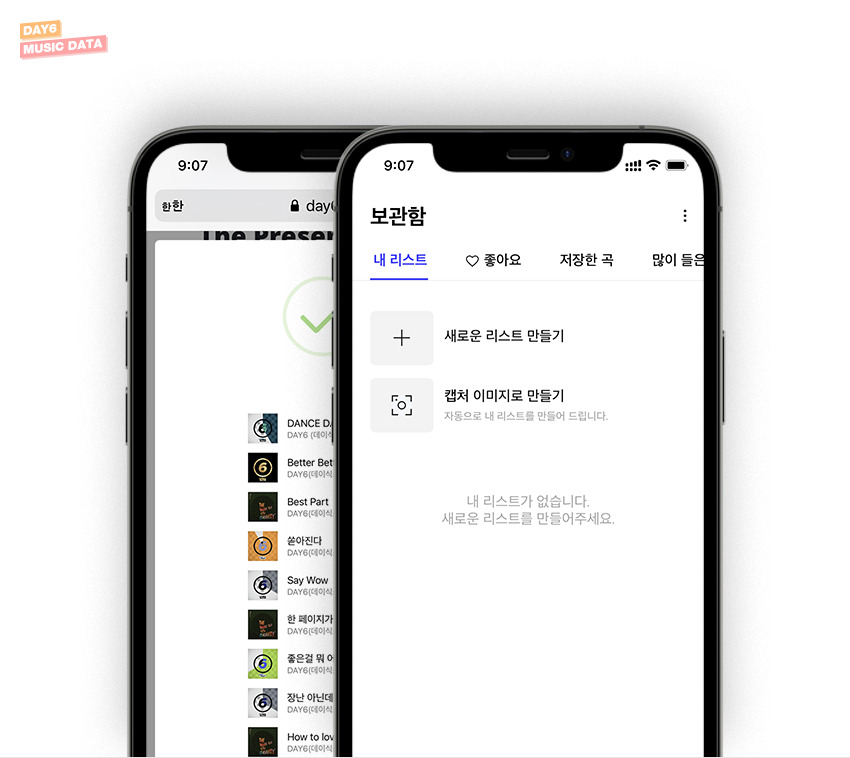
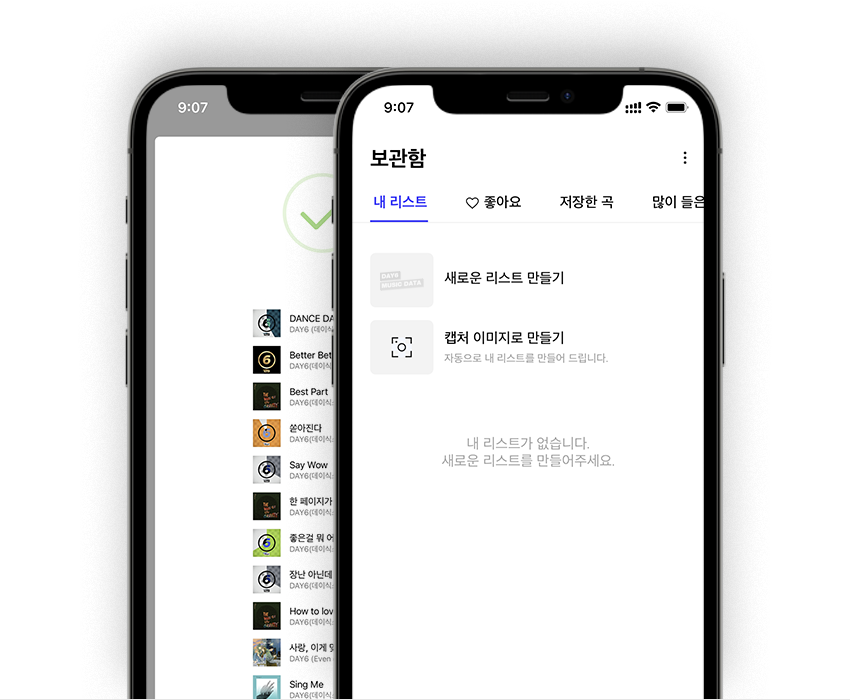
playlist-flo fix
playlist

diff --git a/assets/music.site.js b/assets/music.site.js
@@ -24,57 +24,56 @@ function musicsite(site, theme) {
   genie_songid[0] = "89220627;88233287;84964151;89220631;87591823;91978161;87591822;90194895;86112661;87121534;90756155;87463141;89472166;89472160;90194898;88072514;90194901;86112660;89472169;87415867;86990353;88072518;86866729;87185619;86931930;84964153;88072515;87463142;90194896;86112662;88455413";
   bugs_songid[0] = "31650949|31225862|4551004|31650953|30872543|32124930|30872542|31908732|30203513|30646155|32006767|30800908|31728999|31728993|31908735|31120687|31908738|30203512|31729002|30772387|30573081|31120691|30511021|30677528|30540153|4551006|31120688|30800909|31908733|30203514|31360122";
   vibe_songid[0] = "27852478,21712039,5701352,27852482,20121084,44037981,20121086,40319205,6049323,17736000,41909365,19183554,30184806,30165478,40319207,21408915,40319210,6049322,30184811,18939330,16473415,21408917,16035923,17836615,16081363,5701361,21408920,19183552,40319204,6049324,23177552";
-  flo_image[0] = "/playlist/pick.png"
+  flo_image[0] = "/playlist/pick.gif"
 
   // 1 - Arcane Salon
   melon_songid[1] = "32892356,31927275,30507915,31927276,7844375,31927274,30399494,31295149,30658626,30285386,31481699,30232719,32892358,31481700,33210835,32892360,30399493,8120285,7844372";
   genie_songid[1] = "90756153,89220627,87264764,89220628,84964154,89220626,87121534,88233287,87463141,86990353,88455412,86931930,90756155,88455413,91978161,90756157,87121533,86112661,84964151";
   bugs_songid[1] = "32006765,31650949,30708337,31650950,4551007,31650948,30646155,31225862,30800908,30573081,31360121,30540153,32006767,31360122,32124930,32006769,30646154,30203513,4551004";
   vibe_songid[1] = "41909363,27852478,18419728,27852479,5701347,27852477,17736000,21712039,19183554,16473415,23177550,16081363,41909365,23177552,44037981,41909366,17735999,6049323,5701352";
-  flo_image[1] = "/playlist/Arcane-Salon.png"
+  flo_image[1] = "/playlist/arcane-salon.gif"
 
   // 2 - present-2019
   melon_songid[2] = "32115582,32115584,30232719,31149441,30285386,30457472,32115585,30189030,8120284,30772000,31481700,30566475,7844375,30508688,31481703,32115575,32115576,31927275,32115577,30399493,7844372,8120285";
   genie_songid[2] = "89472166,89472168,86931930,88072518,86990353,87185619,89472169,86866729,86112660,87591823,88455413,87359517,84964154,87264765,88455416,89472159,89472160,89220627,89472161,87121533,84964151,86112661";
   bugs_songid[2] = "31728999,31729001,30540153,31120691,30573081,30677528,31729002,30511021,30203512,30872543,31360122,30742601,4551007,30708338,31360125,31728992,31728993,31650949,31728994,30646154,4551004,30203513";
   vibe_songid[2] = "30184806,30184810,16081363,21408917,16473415,17836615,30184811,16035923,6049322,20121084,23177552,18676777,5701347,18419729,23177561,30184802,30165478,27852478,30184807,17735999,5701352,6049323";
-  flo_image[2] = "/playlist/the-present-2019.png"
+  flo_image[2] = "/playlist/the-present-2019.gif"
 
   // 3 - gravity
   melon_songid[3] = "31927279,8120285,8120286,31149438,31927275,31481703,7844373,31149439,31927276,31927274,31927277,7844376,31481700,8120283,7844377,30658627,30189029,30457471,31481701,31149436,31149437,31927275,31927278,7844374,30399493,7844372,8120285";
   genie_songid[3] = "89220631,86112661,86112662,88072515,89220627,88455416,84964152,88072516,89220628,89220626,89220629,84964155,88455413,86089285,84964156,87463142,86866728,87185618,88455414,88072513,88072514,89220627,89220630,84964153,87121533,84964151,86112661";
   bugs_songid[3] = "31650953,30203513,30203514,31120688,31650949,31360125,4551005,31120689,31650950,31650948,31650951,4551008,31360122,30203511,4551009,30800909,30511020,30677527,31360123,31120686,31120687,31650949,31650952,4551006,30646154,4551004,30203513";
   vibe_songid[3] = "27852482,6049323,6049324,21408920,27852478,23177561,5701356,21408916,27852479,27852477,27852481,5701349,23177552,6049321,5701354,19183552,16035922,17836612,23177555,21408918,21408915,27852478,27852480,5701361,17735999,5701352,6049323";
-  flo_image[3] = "/playlist/GRAVITY-FIRST.png"
+  flo_image[3] = "/playlist/gravity.gif"
 
   // 4 - love
   melon_songid[4] = "31927275,30771999,30711863,30772000,31295149,30507915,30399494,33210835,31927276,30345503,30233080,30345502";
   genie_songid[4] = "89220627;87591822;87527109;87591823;88233287;87264764;87121534;91978161;89220628;87064419;86931931;87064418";
   bugs_songid[4] = "31650949|30872542|30833862|30872543|31225862|30708337|30646155|32124930|31650950|30612024|30540154|30612023";
   vibe_songid[4] = "27852478,20121086,19738184,20121084,21712039,18419728,17736000,44037981,27852479,17409156,16081364,17409146";
-  flo_image[4] = "https://day6.kr/playlist/love.png"
-  flo_image[4] = "/playlist/love.png"
+  flo_image[4] = "/playlist/love.gif"
 
   // 5 - sad
   melon_songid[5] = "30617943,30457472,31149441,32586853,30189030,32115585,30232719,31481699,30617942,30285386,31481700,30457476";
   genie_songid[5] = "87415868,87185619,88072518,90194901,86866729,89472169,86931930,88455412,87415867,86990353,88455413,87185623";
   bugs_songid[5] = "30772388,30677528,31120691,31908738,30511021,31729002,30540153,31360121,30772387,30573081,31360122,30677532";
   vibe_songid[5] = "18939331,17836615,21408917,40319210,16035923,30184811,16081363,23177550,18939330,16473415,23177552,17836617";
-  flo_image[5] = "/playlist/sad.png"
+  flo_image[5] = "/playlist/sad.gif"
 
   // 6 - exciting
   melon_songid[6] = "30399493,30771999,31927279,30711863,30345503,31927275,30566474,30345502,31927276,33210835,8120285,32586847,31481700,31149437,32586850,31149438,32115576";
   genie_songid[6] = "87121533,87591822,89220631,87527109,87064419,89220627,87359516,87064418,89220628,91978161,86112661,90194895,88455413,88072514,90194898,88072515,89472160";
   bugs_songid[6] = "30646154,30872542,31650953,30833862,30612024,31650949,30742600,30612023,31650950,32124930,30203513,31908732,31360122,31120687,31908735,31120688,31728993";
   vibe_songid[6] = "17735999,20121086,27852482,19738184,17409156,27852478,18676775,17409146,27852479,44037981,6049323,40319205,23177552,21408915,40319207,21408920,30165478";
-  flo_image[6] = "/playlist/Exciting.png"
+  flo_image[6] = "/playlist/exciting.gif"
 
   // 7 - calm
   melon_songid[7] = "30232719,30617942,32115585,30189030,32586849,8120284,32115582,30285386,30658626,31295149,30507915,31481704,32586848,32892358,31481699,30772011";
   genie_songid[7] = "86931930,87415867,89472169,86866729,90194897,86112660,89472166,86990353,87463141,88233287,87264764,88455417,90194896,90756155,88455412,87591834";
   bugs_songid[7] = "30540153,30772387,31729002,30511021,31908734,30203512,31728999,30573081,30800908,31225862,30708337,31360126,31908733,32006767,31360121,30872554";
   vibe_songid[7] = "16081363,18939330,30184811,16035923,40319206,6049322,30184806,16473415,19183554,21712039,18419728,23177562,40319204,41909365,23177550,20121097";
-  flo_image[7] = "/playlist/Calm.png"
+  flo_image[7] = "/playlist/calm.gif"
 
 
   // melon : 1 // genie : 2 // bugs : 3 // vibe : 4 // flo : 5
